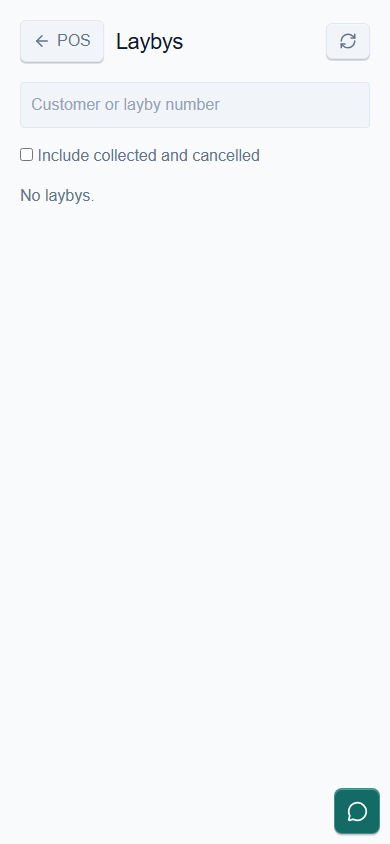
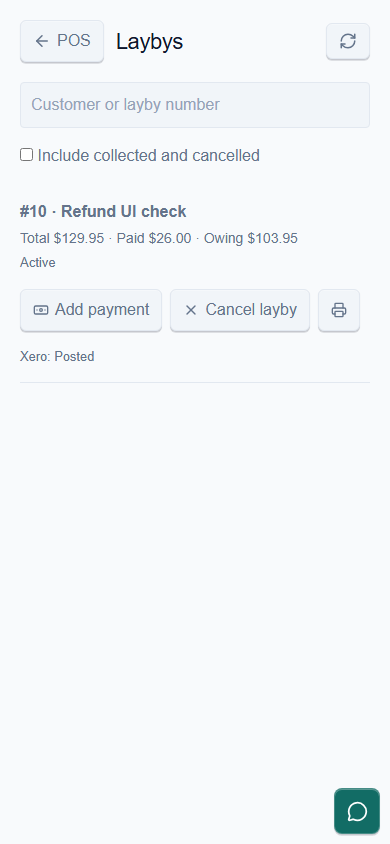
layby final

diff --git a/src/app/pos/page.tsx b/src/app/pos/page.tsx
@@ -5141,6 +5141,8 @@ function PaymentModal({ total, methods, isLayby, onComplete, onCancel, zellerEna
   const terminal = Zeller.useTerminal();
   const [zellerPending, setZellerPending] = useState(false);
   const [zellerError,   setZellerError]   = useState<string | null>(null);
+  const terminalInFlight = useRef(false);
+  const [terminalOutcomeUnknown, setTerminalOutcomeUnknown] = useState(false);
   const capturedPaymentIds = useRef(new Set<string>());
   const [manualOverride, setManualOverride] = useState(false);
   const isRefund  = total < 0;
@@ -5318,9 +5320,11 @@ function PaymentModal({ total, methods, isLayby, onComplete, onCancel, zellerEna
   }
 
   async function handleZellerTransaction() {
-    if (zellerPending || capturedPaymentIds.current.size > 0) return;
+    if (terminalInFlight.current || terminalOutcomeUnknown || capturedPaymentIds.current.size > 0) return;
+    terminalInFlight.current = true;
     setZellerPending(true);
     setZellerError(null);
+    let sentToTerminal = false;
     // Zeller expects a positive integer in the smallest currency unit (cents).
     // e.g. $15.00 => 1500. Guard against floats/NaN/zero.
     const chargeAmount = isLayby ? Math.min(Number(amount), remaining) : remaining;
@@ -5329,6 +5333,7 @@ function PaymentModal({ total, methods, isLayby, onComplete, onCancel, zellerEna
     if (!Number.isInteger(amountCents) || amountCents <= 0) {
       setZellerError(`Invalid amount ($${fmt(remaining)}). Nothing to charge.`);
       setZellerPending(false);
+      terminalInFlight.current = false;
       return;
     }
     try {
@@ -5347,6 +5352,7 @@ function PaymentModal({ total, methods, isLayby, onComplete, onCancel, zellerEna
         return;
       }
 
+      sentToTerminal = true;
       const result = await executeZellerTransaction(terminal, {
         amount: amountCents,
         isRefund,
@@ -5355,12 +5361,13 @@ function PaymentModal({ total, methods, isLayby, onComplete, onCancel, zellerEna
       });
       if (result instanceof Error) {
         const t = (result as any).type ?? result.message;
-        if (!/cancel|declin/i.test(String(t))) reportTerminalFailure();
+        if (!/cancel|declin/i.test(String(t))) { setTerminalOutcomeUnknown(true); reportTerminalFailure(); }
         setZellerError(`${isRefund ? 'Refund' : 'Payment'} ${t === 'Cancelled' ? 'cancelled at terminal' : 'failed'}: ${t} (sent $${(amountCents / 100).toFixed(2)})`);
         return;
       }
       const approved = getApprovedZellerPurchase(result);
       if (!approved) {
+        if (!/declin|fail|cancel/i.test(String(result.status))) { setTerminalOutcomeUnknown(true); reportTerminalFailure(); }
         const detail = result.responseText || result.status || 'Transaction declined';
         setZellerError(`${isRefund ? 'Refund' : 'Payment'} declined: ${detail} (sent $${(amountCents / 100).toFixed(2)})`);
         return;
@@ -5379,9 +5386,11 @@ function PaymentModal({ total, methods, isLayby, onComplete, onCancel, zellerEna
         `zeller:${txId}`,
       );
     } catch (e: any) {
+      if (sentToTerminal) setTerminalOutcomeUnknown(true);
       reportTerminalFailure();
       setZellerError(`Terminal error: ${e?.type ?? e?.message ?? 'Unknown error'}`);
     } finally {
+      terminalInFlight.current = false;
       setZellerPending(false);
     }
   }
@@ -5433,6 +5442,7 @@ function PaymentModal({ total, methods, isLayby, onComplete, onCancel, zellerEna
           ))}
         </div>}
 
+        {terminalOutcomeUnknown && <p role='alert' style={{ color: 'var(--sv-red)', fontSize: '.85rem' }}>Terminal outcome unconfirmed. Check terminal history before proceeding. If approved, use manual entry to record the existing transaction; do not issue another payment or refund.</p>}
         {/* Zeller Terminal payment UI */}
         {!isZeroTotal && isZellerActive ? (
           <div style={{ marginBottom: '.75rem' }}>
@@ -5448,7 +5458,7 @@ function PaymentModal({ total, methods, isLayby, onComplete, onCancel, zellerEna
             )}
             <button
               onClick={handleZellerTransaction}
-              disabled={zellerPending || remaining <= 0}
+              disabled={zellerPending || terminalOutcomeUnknown || capturedPaymentIds.current.size > 0 || remaining <= 0}
               style={{ width: '100%', padding: '.85rem', background: zellerPending ? 'var(--sv-etch)' : 'var(--sv-action)', border: 'none', borderRadius: 8, color: '#fff', fontWeight: 700, fontSize: '1.1rem', cursor: zellerPending ? 'default' : 'pointer', marginBottom: '.4rem' }}
             >
               {zellerPending ? '⏳ Waiting for terminal…' : `💳 ${isRefund ? 'Refund' : 'Pay'} $${fmt(isLayby ? Math.max(0, Math.min(Number(amount) || 0, remaining)) : remaining)} via Terminal`}

diff --git a/scripts/reconcile-newtown-layby-586370.ts b/scripts/reconcile-newtown-layby-586370.ts
@@ -38,6 +38,15 @@ async function main() {
       assert.equal(Number(payments[0].id), 13061);
       assert.equal(Number(payments[0].amount), 26);
       assert.equal(payments[0].payment_method, 'Card');
+      const [reconciliations]: any = await connection.execute('SELECT payment_method,expected_amount,counted_amount,xero_invoice_id FROM pos_eod_reconciliations WHERE id = 1103 AND register_session_id = 322 FOR UPDATE');
+      assert.equal(reconciliations.length, 1);
+      assert.equal(reconciliations[0].payment_method, 'Card');
+      assert.equal(reconciliations[0].xero_invoice_id, invoiceId);
+      assert.equal(Number(reconciliations[0].counted_amount), 1006.72);
+      assert.ok([980.72, 1006.72].includes(Number(reconciliations[0].expected_amount)));
+      const correctExpected = async () => {
+        await connection.execute('UPDATE pos_eod_reconciliations SET expected_amount = ? WHERE id = 1103 AND register_session_id = 322 AND xero_invoice_id = ? AND counted_amount = ?', [1006.72, invoiceId, 1006.72]);
+      };
       const [items]: any = await connection.execute('SELECT * FROM pos_sale_items WHERE sale_id = ? FOR UPDATE', [saleId]);
       assert.equal(items.length, 1);
       assert.equal(items[0].code, 'PSN1703');
@@ -59,8 +68,10 @@ async function main() {
         const verified = (await xeroApiFetch(businessId, `/ManualJournals/${journalId}`)).ManualJournals?.[0];
         assert.equal(verified?.Narration, narration);
         assert.equal(verified?.Status, 'POSTED');
-        await connection.rollback();
-        return { alreadyCorrected: true, journalId, paid: 26, balance: 103.95, reserved: 1 };
+        if (apply) { await correctExpected(); await connection.commit(); }
+        else await connection.rollback();
+        return { alreadyCorrected: true, journalId, paid: 26, balance: 103.95, reserved: 1,
+          cardExpected: apply ? 1006.72 : Number(reconciliations[0].expected_amount), expectedCorrectionNeeded: !apply && Number(reconciliations[0].expected_amount) !== 1006.72 };
       }
       const [stocks]: any = await connection.execute('SELECT qty_on_hand,qty_committed FROM ims_stock WHERE variant_id = ? AND location_id = 1 FOR UPDATE', [variants[0]]);
       assert.equal(stocks.length, 1);
@@ -113,6 +124,7 @@ async function main() {
       await connection.execute(`INSERT INTO pos_layby_events (business_id,sale_id,operation_key,kind,amount,location_id,register_id,register_session_id,reason,created_at,xero_status,xero_id)
         VALUES (?, ?, ?, 'cancellation', 0, 1, 1, 322, ?, ?, 'posted', ?)`, [businessId, saleId, `adopt:${saleId}`, 'Approved historical adoption; no payment or refund', sale.created_at, journalId]);
       await connection.execute('UPDATE pos_sales SET notes = CONCAT_WS(CHAR(10), NULLIF(notes, ?), ?) WHERE id = ? AND business_id = ?', ['', `2026-10-07 approved layby adoption: reserved 1 unit; retained AUD 26 deposit and AUD 103.95 balance; Xero reclassification ${journalId}. No charge or refund.`, saleId, businessId]);
+      await correctExpected();
       await connection.commit();
       await refreshVariantCache(variants);
       return { applied: true, journalId, paid: 26, balance: 103.95, reserved: 1, stockOnHand: 1 };

diff --git a/tmp/validate-layby-browser.ts b/tmp/validate-layby-browser.ts
@@ -19,6 +19,11 @@ async function main() {
   const browser = await chromium.launch({ headless: true });
   try {
     const context = await browser.newContext({ viewport: { width: 1440, height: 1000 } });
+    const refundProbe = process.argv.includes('--refund');
+    if (refundProbe) await context.route(/\/api\/pos\/laybys(?:\?.*)?$/, async route => {
+      if (route.request().method() !== 'GET') { await route.abort(); return; }
+      await route.fulfill({ json: { laybys: [{ id: 10, customer_name: 'Refund UI check', total: 129.95, paid_total: 26, fee_percent: 0, retained_fee: 0, layby_state: 'active', accounting_status: 'posted' }] } });
+    });
     const page = await context.newPage();
     await context.route(/\/api\/(xero|pos\/xero|pos\/eod)/, async route => {
       if (route.request().method() !== 'GET') await route.abort(); else await route.continue();
@@ -46,6 +51,19 @@ async function main() {
     await page.setViewportSize({ width: 390, height: 844 });
     assert.ok(await page.evaluate(() => document.documentElement.scrollWidth <= innerWidth), 'Layby screen must not overflow on mobile');
     await page.screenshot({ path: 'tmp/laybys-mobile.png', fullPage: true });
+    if (refundProbe) {
+      await page.setViewportSize({ width: 1440, height: 1000 });
+      await page.getByRole('button', { name: 'Cancel layby', exact: true }).click();
+      await page.getByRole('button', { name: 'Refund and cancel', exact: true }).click();
+      await page.getByRole('heading', { name: /Refund/ }).waitFor();
+      await page.getByRole('button', { name: 'Cash', exact: true }).click();
+      await page.screenshot({ path: 'tmp/layby-refund-desktop.png', fullPage: true });
+      await page.setViewportSize({ width: 390, height: 844 });
+      assert.ok(await page.evaluate(() => document.documentElement.scrollWidth <= innerWidth), 'Refund screen must not overflow on mobile');
+      await page.screenshot({ path: 'tmp/layby-refund-mobile.png', fullPage: true });
+      console.log('PASS: populated cancellation opens the shared cash/card refund dialog on desktop/mobile; no refund issued or recorded.');
+      return;
+    }
     await page.setViewportSize({ width: 1440, height: 1000 });
     const branchSettings = page.waitForResponse(response => response.url().includes('/api/pos/settings/location?location_id=') && response.request().method() === 'GET');
     await page.goto('http://localhost:3012/ims#settings-pos');

diff --git a/src/app/api/runtime-issues/client/route.ts b/src/app/api/runtime-issues/client/route.ts
@@ -4,9 +4,6 @@ import { reportRuntimeIssue } from '@/lib/runtimeIssues';
 import { getImsSession } from '@/lib/auth/imsSession';
 
 export async function POST(request: Request) {
-  const session = await getImsSession(['marketoir_session', 'pos_session']);
-  if (!session?.businessId) return NextResponse.json({ error: 'Not authenticated.' }, { status: 401 });
-
   const body = await request.json().catch(() => null) as {
     message?: string;
     name?: string;
@@ -15,6 +12,9 @@ export async function POST(request: Request) {
     pathname?: string;
     operation?: string;
   } | null;
+  const isPosOperation = ['pos_login_cache_write', 'pos_terminal_refund', 'pos_terminal_purchase'].includes(body?.operation ?? '');
+  const session = await getImsSession(isPosOperation ? ['pos_session', 'marketoir_session'] : ['marketoir_session', 'pos_session']);
+  if (!session?.businessId) return NextResponse.json({ error: 'Not authenticated.' }, { status: 401 });
   if (!body?.message?.trim()) {
     return NextResponse.json({ error: 'message is required.' }, { status: 400 });
   }

diff --git a/src/app/api/runtime-issues/client/__tests__/route.test.ts b/src/app/api/runtime-issues/client/__tests__/route.test.ts
@@ -8,6 +8,7 @@ describe('terminal runtime issues', () => {
   it.each(['pos_terminal_refund', 'pos_terminal_purchase'])('persists %s with authenticated tenant context', async operation => {
     const response = await POST(new Request('http://localhost/api/runtime-issues/client', { method: 'POST', body: JSON.stringify({ operation, message: 'Terminal failed', pathname: '/pos' }) }));
     expect(response.status).toBe(200);
+    expect(session).toHaveBeenCalledWith(['pos_session', 'marketoir_session']);
     expect(report).toHaveBeenCalledWith(expect.objectContaining({ businessId: 'test-business', source: 'pos_terminal', operation }));
   });
   it('rejects unauthenticated reports', async () => {

diff --git a/docs/help/pos/laybys.md b/docs/help/pos/laybys.md
@@ -53,6 +53,8 @@ Use Layby mode for a new layby and **More > Laybys** for its later payments, col
 11. To cancel before collection, select **Cancel layby**, check the retained fee, enter a reason for any override and choose **Refund and cancel**. Select Cash, a configured integrated Card method, or another supported manual tender and refund exactly the amount due. Complete cash/manual refunds separately before recording them. An integrated card refund must be approved on the terminal. If nothing is refundable, confirm cancellation directly.
 12. If a save fails, use **Retry saved deposit** or **Retry saved action** in Laybys. These reuse the recorded request without another payment. A request tied to a register session that has since closed needs staff reconciliation rather than a new charge.
 
+If the terminal outcome is unconfirmed, check terminal history before proceeding. An approved refund can be recorded using manual entry without issuing it again. Do not restart the refund merely because the browser lost the terminal response.
+
 ## Accounting and older laybys
 
 Each deposit, instalment and refund contributes to its own payment day's takings and register session. Partial deposits are a liability, not merchandise revenue. GST is recognised on final payment, even when collection is later. Merchandise revenue is recognised on collection, without charging GST twice. Retained cancellation fees are revenue with GST extracted from the fee.
